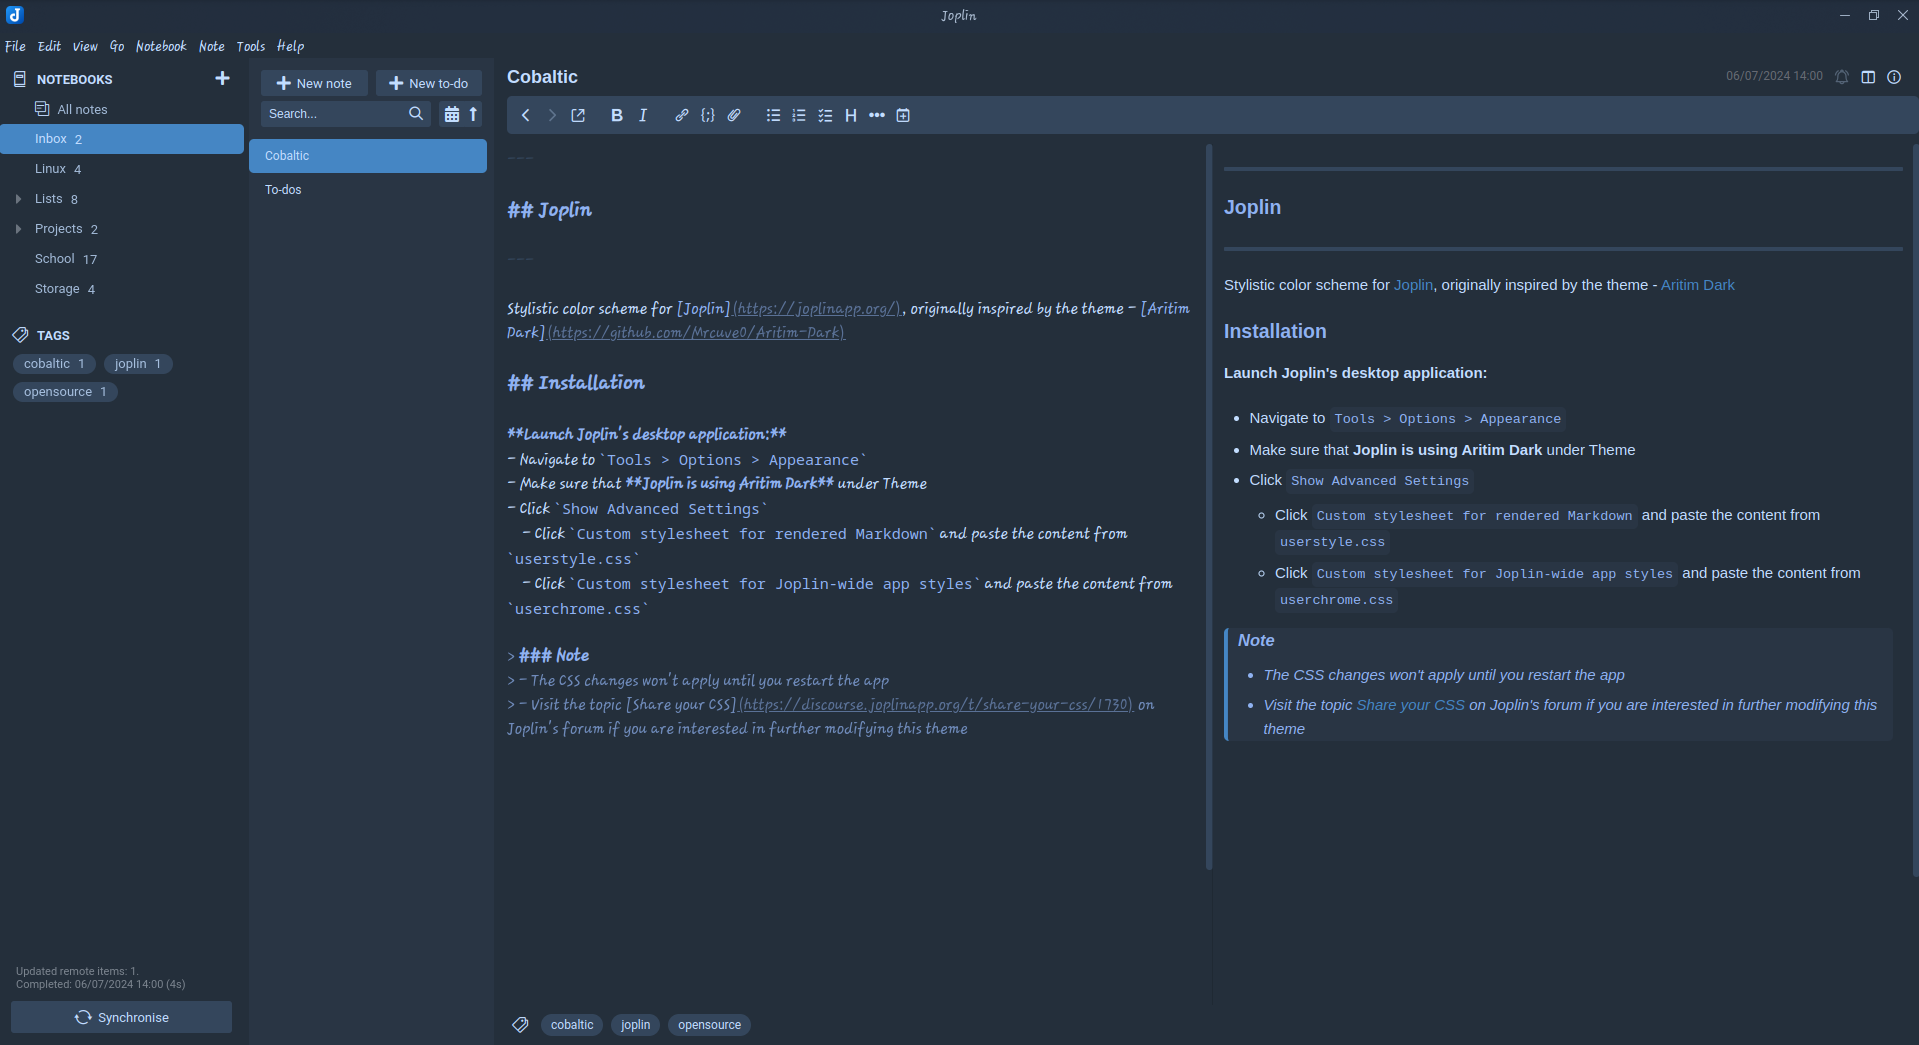
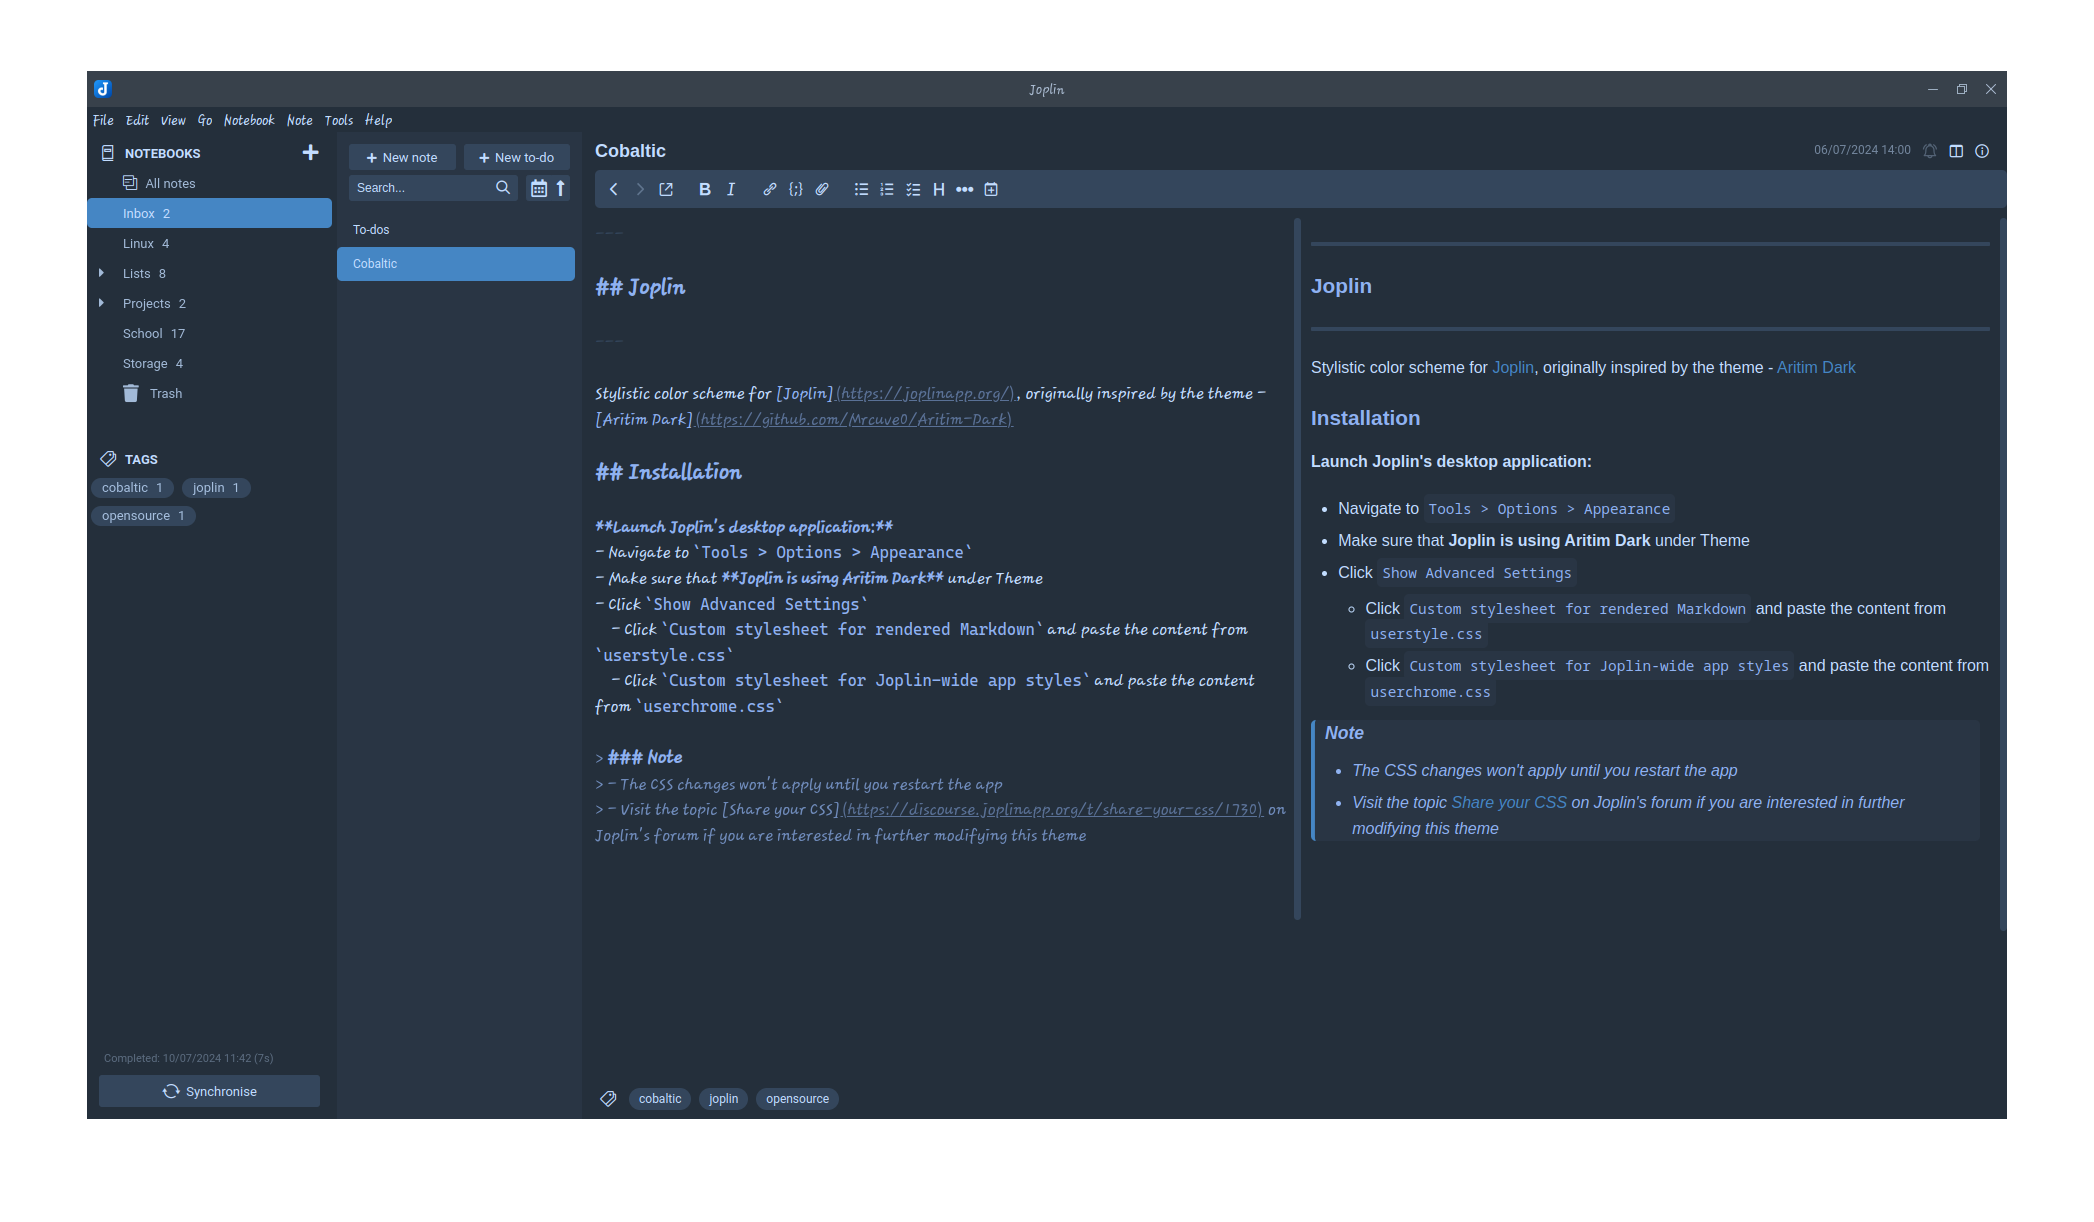
Fix Joplin 3.0 CSS Changes

diff --git a/Joplin/userchrome.css b/Joplin/userchrome.css
@@ -1,8 +1,8 @@
 /* For styling the entire Joplin app, except the rendered Markdown */
 
 /*********************************************************
-* Variables
-*********************************************************/
+ * Variables
+ *********************************************************/
 
 :root {
 	--main-txt-color: #c2ddff;
@@ -15,18 +15,12 @@
 }
 
 /*********************************************************
-* Content
-*********************************************************/
+ * Content
+ *********************************************************/
 
 /* Icons and Labels */
 .fa,
-.far,
-.fas {
-	font-weight: 900 !important;
-	font-family: "Font Awesome 5 Free" !important;
-	font-size: 16px !important;
-}
-
+.fas,
 .sidebar .icon-notebooks,
 .sidebar .icon-notebooks~span,
 .icon-notes,
@@ -34,13 +28,12 @@
 .icon-tags,
 .icon-tags~span,
 .fa-plus,
-.fa-times,
-.folders .title,
-.folders .note-count,
+.sidebar .title,
+.sidebar .note-count,
 .sidebar .tag-label,
 .sidebar .note-count-label,
 .fa-share-square,
-.title-input,
+.fa-calendar-alt,
 .icon-back,
 .icon-forward,
 .icon-share,
@@ -53,16 +46,19 @@
 .icon-numbered-list,
 .icon-to-do-list,
 .icon-heading,
-.fa-ellipsis-h,
 .icon-add-date,
 .icon-info,
 .icon-layout,
+.icon-alarm {
+	color: var(--main-txt-color) !important;
+}
+
+/* Plugins */
 .fa-chevron-up,
 .fa-chevron-down,
 .fa-hand-point-left,
 .fa-caret-down,
-.fa-hashtag,
-.icon-alarm {
+.fa-hashtag {
 	color: var(--main-txt-color) !important;
 }
 
@@ -72,8 +68,8 @@
 }
 
 /*********************************************************
-* Panels
-*********************************************************/
+ * Panels
+ *********************************************************/
 
 /* Main Panel */
 .resizableLayoutItem>div {
@@ -103,53 +99,55 @@
 }
 
 /* Panel Divider */
-div:has(> iframe) {
+div:has(>iframe) {
+	border: 5px !important;
 	border-color: var(--panel-bg-color) !important;
 }
 
 /*********************************************************
-* Sidebar
-*********************************************************/
+ * Sidebar
+ *********************************************************/
 
 /* Folders */
-.folders .list-item-container.selected {
+.list-item>span {
 	color: var(--main-txt-color) !important;
-	background-color: var(--accent-color) !important;
-	border-radius: 5px;
-	opacity: 1;
 }
 
-.folders .list-item-container.selected:hover {
-	color: var(--main-txt-color) !important;
-	background-color: var(--accent-color) !important;
-	border-radius: 5px;
-	opacity: 1;
-}
-
-.folders .list-item-container:hover {
-	color: var(--main-txt-color) !important;
-	background-color: var(--panel-fg-color) !important;
-	border-radius: 5px;
-}
-
-.folders .all-notes {
+.all-notes {
 	color: var(--main-txt-color) !important;
 	background-color: var(--panel-bg-color) !important;
 }
 
-/* Tags */
-.tags {
-	margin-left: 10px;
+.list-item-container[data-folder-id].selected {
+	background-color: var(--accent-color) !important;
+	border-radius: 5px;
+	opacity: 1;
 }
 
-.tags a.list-item {
+.list-item-container[data-folder-id].selected:hover {
+	background-color: var(--accent-color) !important;
+	border-radius: 5px;
+	opacity: 1;
+}
+
+.list-item-container[data-folder-id]:hover {
+	background-color: var(--panel-fg-color) !important;
+	border-radius: 5px;
+}
+
+/* Tags */
+div:has(>div>i[class*="icon-tags"])~div {
+	margin-left: 4px !important;
+}
+
+a.list-item[data-type="5"] {
 	flex: 0;
 	padding: 0px 6px;
 	min-height: 0px;
 	line-height: 0px;
 }
 
-.tags .list-item-container {
+.list-item-container[data-tag-id] {
 	height: 20px;
 	display: inline-block;
 	background: var(--panel-fg-color) !important;
@@ -160,7 +158,7 @@ div:has(> iframe) {
 	padding: 10px 5px !important;
 }
 
-.tags .list-item-container:hover {
+.list-item-container[data-tag-id]:hover {
 	height: 20px;
 	display: inline-block;
 	background: var(--accent-color) !important;
@@ -174,6 +172,11 @@ div:has(> iframe) {
 /* Sync Area */
 .sidebar>div:last-of-type {
 	background-color: none !important;
+}
+
+.sidebar>div:last-of-type>div>div {
+	color: var(--main-txt-color) !important;
+	opacity: 0.7;
 }
 
 .sidebar>div:last-of-type>button {
@@ -191,8 +194,8 @@ div:has(> iframe) {
 }
 
 /*********************************************************
-* Notes List
-*********************************************************/
+ * Notes List
+ *********************************************************/
 
 /* Notes List Buttons */
 .new-note-button,
@@ -322,8 +325,8 @@ span>mark {
 }
 
 /*********************************************************
-* Dialogs
-*********************************************************/
+ * Dialogs
+ *********************************************************/
 
 /* Tags */
 .modal-dialog {
@@ -398,13 +401,23 @@ span>mark {
 	color: var(--main-txt-color) !important;
 }
 
+.item-list .selected {
+	color: var(--accent-color) !important;
+}
+
 /*********************************************************
-* Editor
-*********************************************************/
+ * Editor
+ *********************************************************/
 
 /* TITLE */
 .title-input {
+	color: var(--main-txt-color) !important;
 	background-color: var(--panel-bg-color) !important;
+}
+
+.updated-time-label {
+	color: var(--main-txt-color) !important;
+	opacity: 0.5;
 }
 
 .sc-ikkxIA.hLzWZa>div {
@@ -478,19 +491,14 @@ a[Title="Tags"]+div>span {
 }
 
 /*********************************************************
-* Editor (CODE MIRROR)
-*********************************************************/
+ * Editor (CODE MIRROR)
+ *********************************************************/
 
 /* Editer Background */
 .CodeMirror-lines,
 .CodeMirror-vscrollbar,
 .CodeMirror-scroll {
 	background-color: var(--panel-bg-color) !important;
-}
-
-/* Editer Font */
-.CodeMirror * {
-	font-family: "Cool Jazz", Avenir, Arial, sans-serif !important;
 }
 
 /* Editer Text Color */

diff --git a/Joplin/userstyle.css b/Joplin/userstyle.css
@@ -1,8 +1,8 @@
 /* Style for rendered Markdown */
 
 /*********************************************************
-* Variables
-*********************************************************/
+ * Variables
+ *********************************************************/
 
 :root {
   --main-txt-color: #c2ddff;
@@ -12,20 +12,17 @@
   --md-fg-color: #34465c;
   --md-bg-color: #293544;
   --panel-bg-color: #242f3b;
-
-  --font-face: "Fira Sans", Arial, Helvetica, sans-serif;
-  --font-mono: "Roboto Mono", Courier, monospace;
 }
 
 /*********************************************************
-* Content
-*********************************************************/
+ * Content
+ *********************************************************/
 
 #rendered-md,
 body {
   color: var(--main-txt-color) !important;
   background-color: var(--panel-bg-color) !important;
-  font-family: var(--font-face) !important;
+  font-size: 16px !important;
 }
 
 h1,
@@ -35,7 +32,6 @@ h4,
 h5,
 h6 {
   color: var(--alt-txt-color) !important;
-  font-family: var(--font-face) !important;
   border: transparent !important;
 }
 
@@ -65,8 +61,8 @@ mark strong {
 }
 
 /*********************************************************
-* Hyperlinks
-*********************************************************/
+ * Hyperlinks
+ *********************************************************/
 
 a {
   color: var(--accent-color) !important;
@@ -85,15 +81,14 @@ a:hover {
 }
 
 /*********************************************************
-* Code Blocks
-*********************************************************/
+ * Code Blocks
+ *********************************************************/
 
 /* Code Fragments */
 pre,
 .hljs {
   color: var(--main-txt-color) !important;
   background-color: var(--md-bg-color) !important;
-  font-family: var(--font-mono) !important;
   border-radius: 5px;
   padding: 10px;
   width: 95%;
@@ -259,15 +254,14 @@ pre,
 .inline-code {
   color: var(--alt-txt-color) !important;
   background-color: var(--md-bg-color) !important;
-  font-family: var(--font-mono) !important;
   border: transparent !important;
   border-radius: 5px;
   padding: 5px;
 }
 
 /*********************************************************
-* Blockquotes
-*********************************************************/
+ * Blockquotes
+ *********************************************************/
 
 blockquote {
   color: var(--alt-txt-color) !important;
@@ -282,8 +276,8 @@ blockquote {
 }
 
 /*********************************************************
-* Tables
-*********************************************************/
+ * Tables
+ *********************************************************/
 
 table {
   background-color: var(--md-bg-color) !important;
